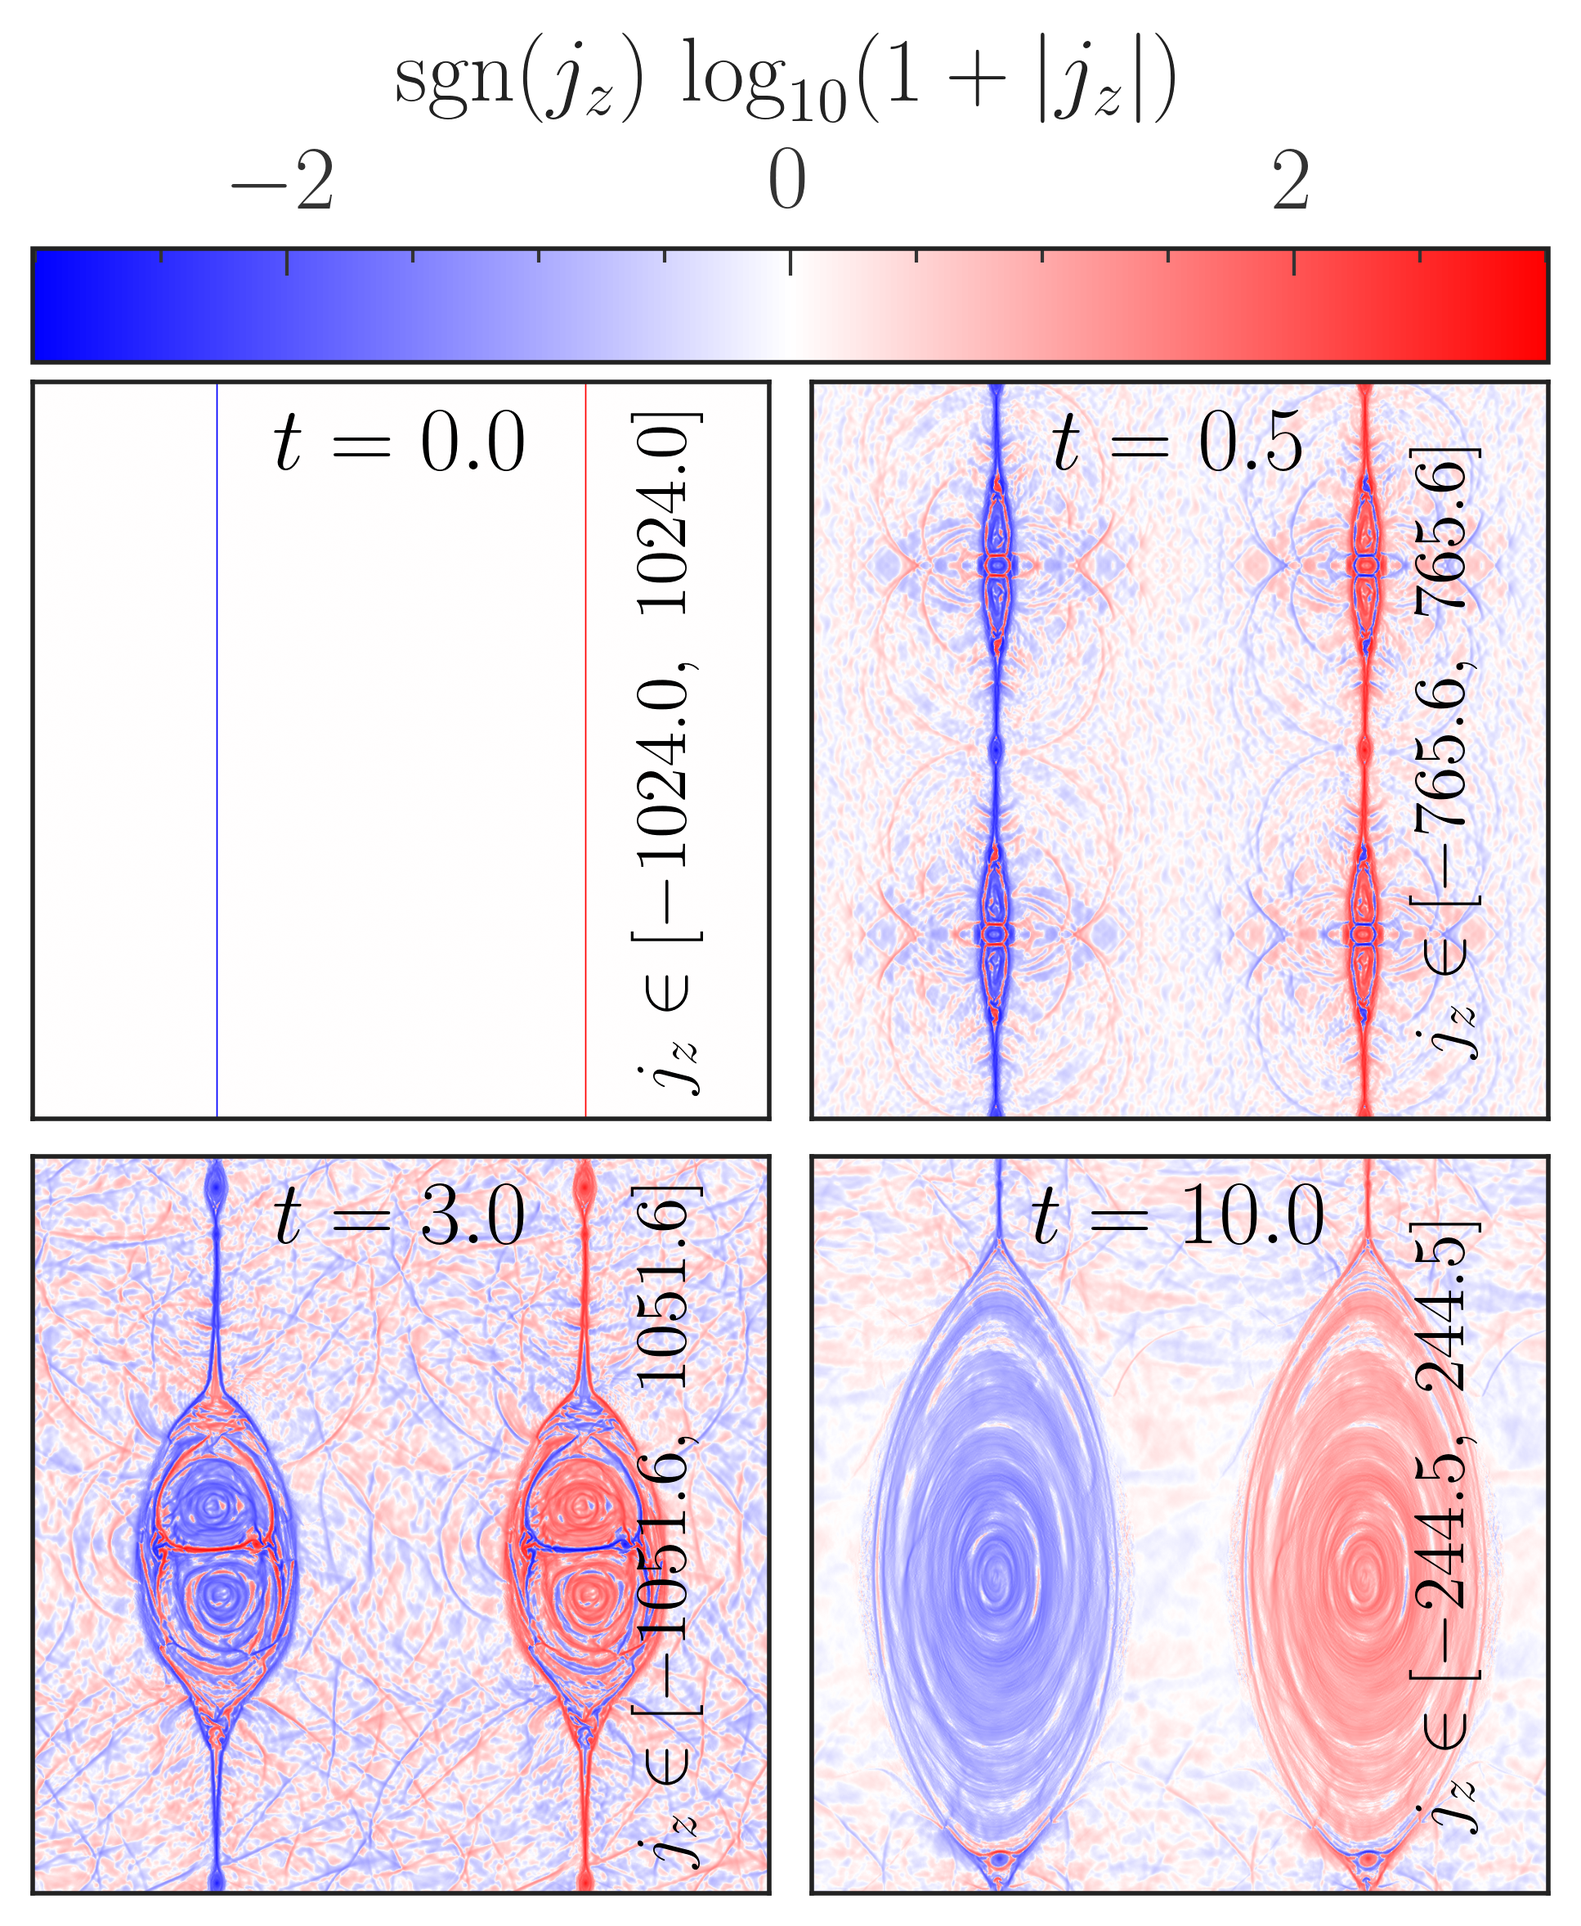
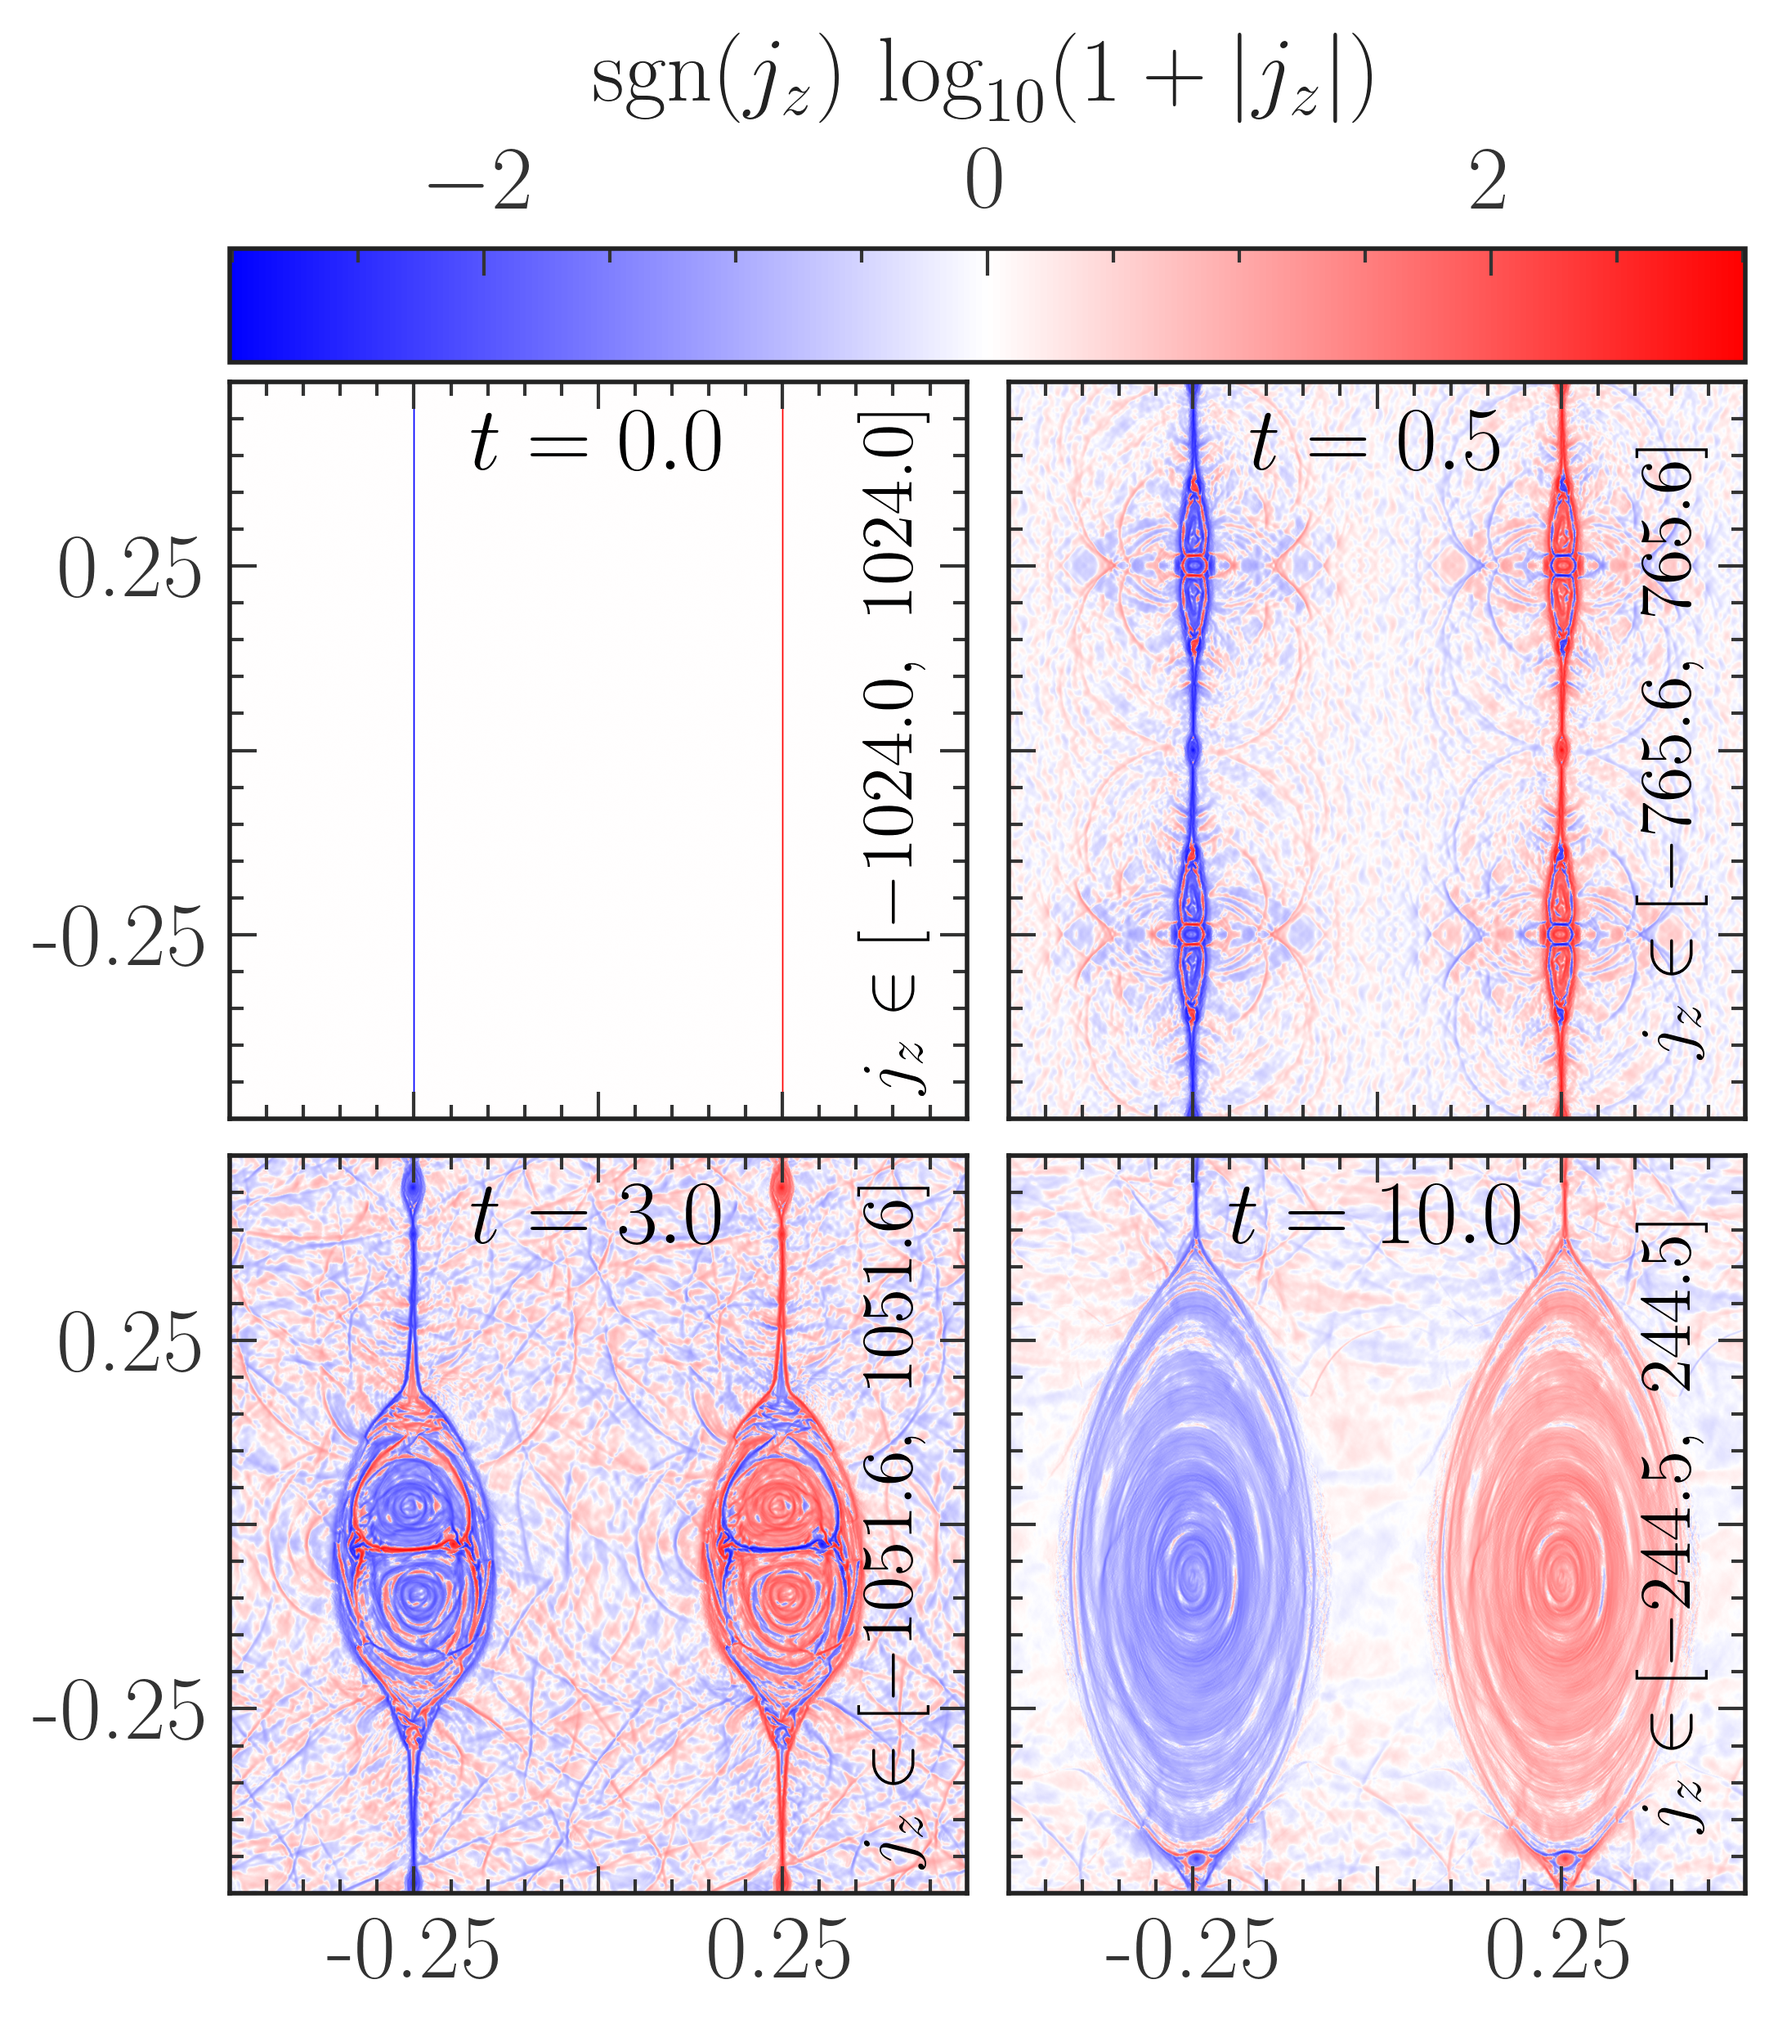
update-content(plot_evolution.py): add domain ticks, labeled only at +/-0.25.

diff --git a/scripts/problems/current-sheet/plot_evolution.py b/scripts/problems/current-sheet/plot_evolution.py
@@ -10,6 +10,7 @@ from pathlib import Path
 
 ## third-party
 import numpy
+from matplotlib.ticker import FuncFormatter, MultipleLocator
 from numpy.typing import NDArray
 
 ## personal
@@ -47,6 +48,9 @@ FIGURE_PATH = ROOT_DIR / "figures/problems/current-sheet/current-density-evoluti
 
 ## plotting details
 AXIS_BOUNDS: plot_data.AxisBounds = ((-0.5, 0.5), (-0.5, 0.5))
+MAJOR_TICK_STEP = 0.25
+MINOR_TICK_STEP = 0.05
+LABELED_TICK_VALUES = (-0.25, 0.25)
 
 ##
 ## === HELPER FUNCTIONS
@@ -103,6 +107,15 @@ def compute_signed_log10(
     return numpy.sign(current_density) * numpy.log10(1.0 + numpy.abs(current_density))
 
 
+def format_domain_tick(
+    tick_value: float,
+    _tick_position: int,
+) -> str:
+    """Label only `LABELED_TICK_VALUES`; every other major tick is drawn unlabeled."""
+    is_labeled = any(numpy.isclose(tick_value, labeled_value) for labeled_value in LABELED_TICK_VALUES)
+    return f"{tick_value:.2f}" if is_labeled else ""
+
+
 ##
 ## === PROGRAM MAIN
 ##
@@ -129,9 +142,11 @@ def main() -> None:
         mid_value=0.0,
         palette_name="bwr",
     )
+    num_rows = 2
+    num_cols = 2
     fig, axs = manage_plots.create_figure_grid(
-        num_rows=2,
-        num_cols=2,
+        num_rows=num_rows,
+        num_cols=num_cols,
         axis_shape=(3, 3),
         x_spacing=0.05,
         y_spacing=0.05,
@@ -140,16 +155,16 @@ def main() -> None:
         compute_upper_bound_value(slice_values=data_slice.current_density) for data_slice in data_slices
     )
     shared_log10_upper_bound_value = float(numpy.log10(1.0 + shared_upper_bound_value))
-    shared_log10_range = (-shared_log10_upper_bound_value, shared_log10_upper_bound_value)
+    shared_log10_bounds = (-shared_log10_upper_bound_value, shared_log10_upper_bound_value)
     for panel_index, data_panel in enumerate(data_panels):
-        row_index, col_index = divmod(panel_index, 2)
+        row_index, col_index = divmod(panel_index, num_cols)
         ax = axs[row_index, col_index]
         plot_data.plot_2d_array(
             ax=ax,
             array_2d=compute_signed_log10(data_panel.data_slice.current_density),
             data_format="xy",
             axis_bounds=AXIS_BOUNDS,
-            cbar_bounds=shared_log10_range,
+            cbar_bounds=shared_log10_bounds,
             palette_config=palette_config,
             add_cbar=False,
         )
@@ -165,7 +180,7 @@ def main() -> None:
             box_alpha=0.0,
         )
         ax.text(
-            0.86,
+            0.9,
             0.5,
             rf"$j_z \in [{data_panel.data_range[0]:.1f},\ {data_panel.data_range[1]:.1f}]$",
             transform=ax.transAxes,
@@ -176,11 +191,17 @@ def main() -> None:
             fontsize=16,
             color="black",
         )
-        ax.set_xticks([])
-        ax.set_yticks([])
+        for axis in (ax.xaxis, ax.yaxis):
+            axis.set_major_locator(MultipleLocator(MAJOR_TICK_STEP))
+            axis.set_minor_locator(MultipleLocator(MINOR_TICK_STEP))
+            axis.set_major_formatter(FuncFormatter(format_domain_tick))
+        ax.tick_params(
+            labelbottom=(row_index == num_rows - 1),
+            labelleft=(col_index == 0),
+        )
     palette = add_color.make_palette(
         config=palette_config,
-        value_range=shared_log10_range,
+        value_range=shared_log10_bounds,
     )
     ## one shared colorbar spanning the full width of the grid
     top_left_bounds = axs[0, 0].get_position()
